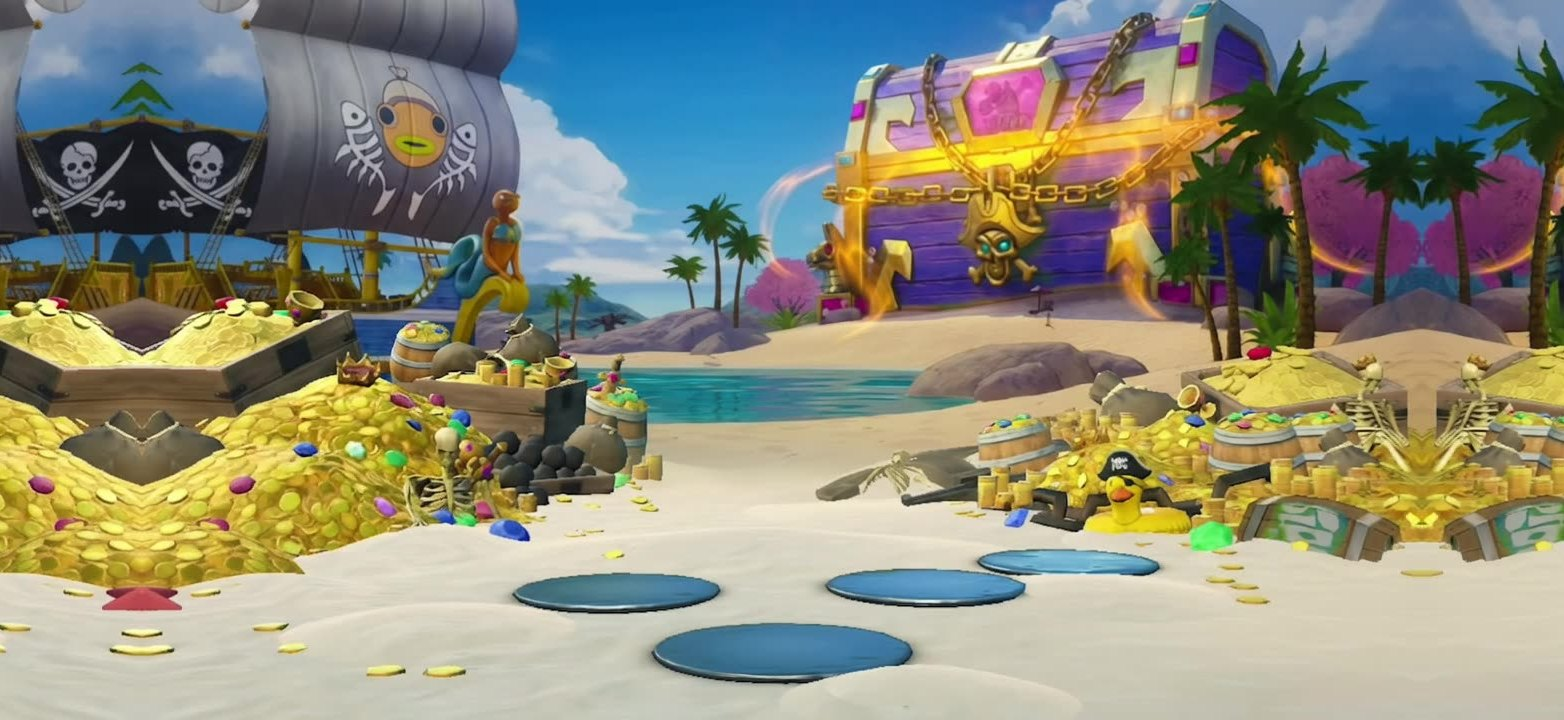
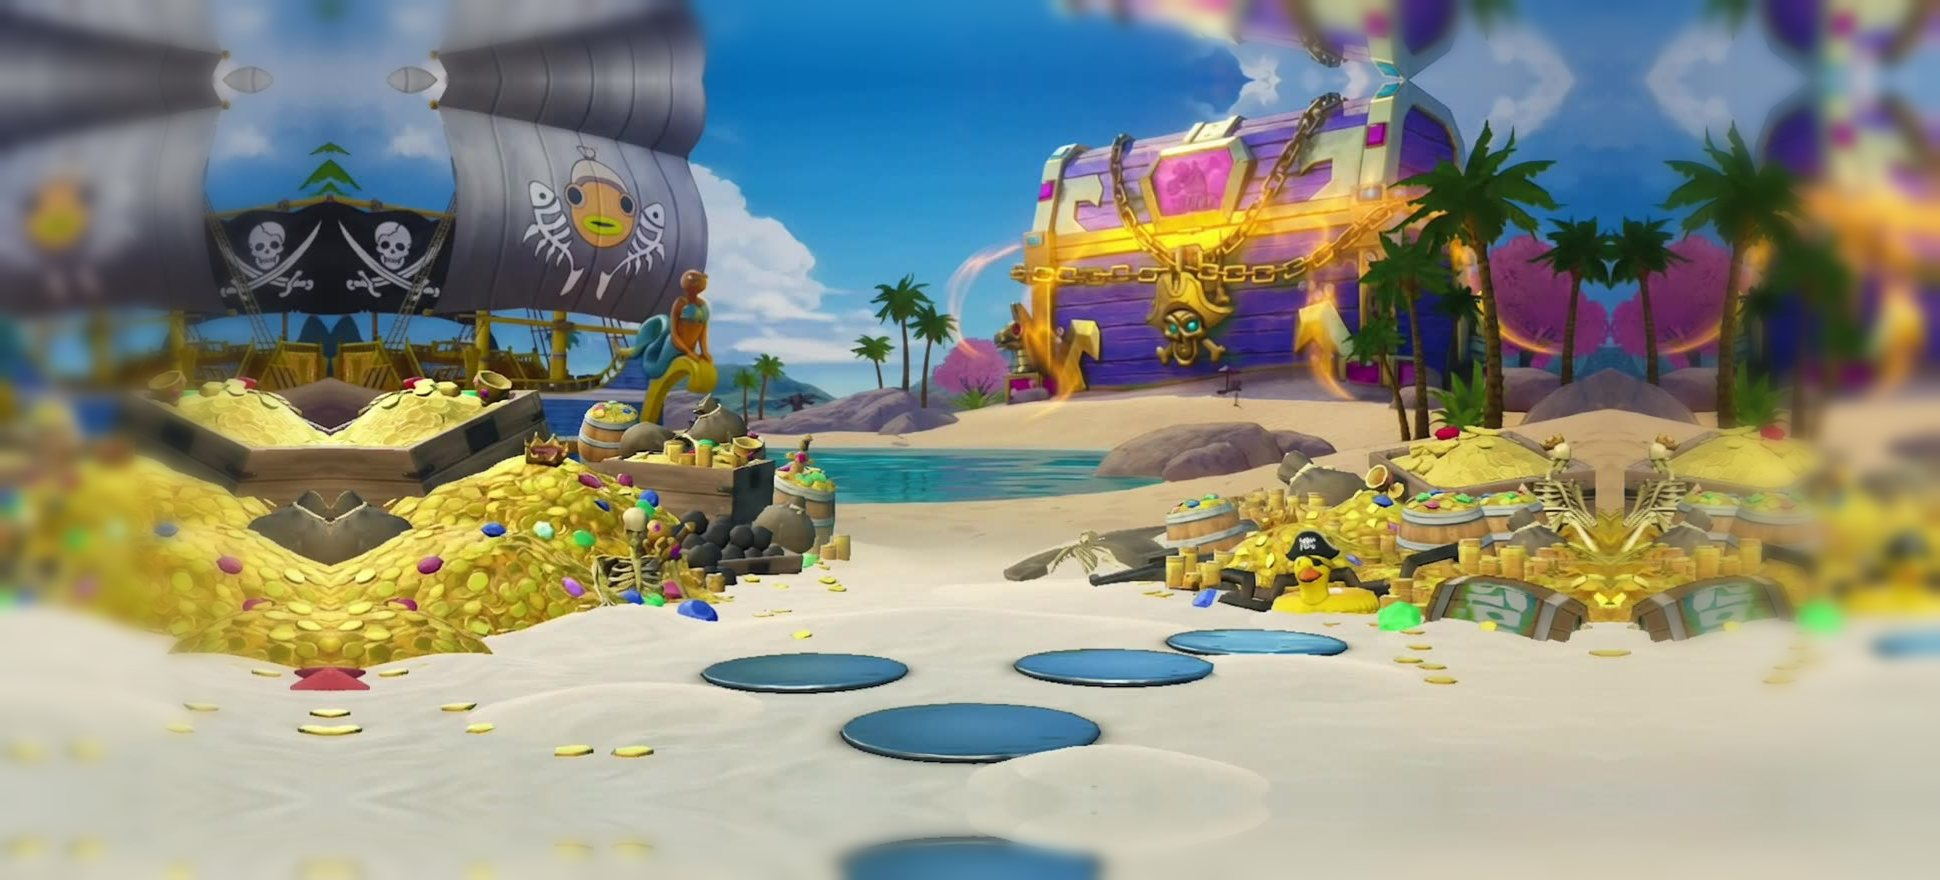
Extend scene beyond stage so the screen is filled edge to edge
Claude-Session: https://claude.ai/code/session_0185b3H2m5DGGxwbrDCBuwc9

diff --git a/fortnite-app/index.html b/fortnite-app/index.html
@@ -20,15 +20,15 @@ body[data-screen="lobby"] #bgfill{background-image:url(assets/lobby_poster.jpg)}
 body[data-screen="treasure"] #bgfill{background-image:url(assets/bg_treasure.webp)}
 body[data-screen="shop"] #bgfill{background-image:url(assets/bg_shop.webp)}
 body[data-screen="vbucks"] #bgfill{background-image:url(assets/bg_vbucks.webp)}
-#bgfx{position:absolute;inset:0;z-index:0;background:transparent center/100% 100% no-repeat}
-#vwrap{position:absolute;left:0;top:0;width:1564px;height:720px;z-index:1;transform-origin:0 0;transform:translate(0,-.15px) scale(1.27935);background:url(assets/lobby_ext.jpg) 0 0/100% 100%}
-#bg{position:absolute;left:142px;top:0;width:1280px;height:720px;object-fit:fill;z-index:1;-webkit-mask-image:linear-gradient(to right,transparent 0,#000 40px,#000 calc(100% - 40px),transparent 100%);mask-image:linear-gradient(to right,transparent 0,#000 40px,#000 calc(100% - 40px),transparent 100%);background:transparent;pointer-events:none}
+#bgfx{position:absolute;left:-300px;top:-90px;width:2600px;height:1101px;z-index:0;background:transparent 0 0/100% 100% no-repeat}
+#vwrap{position:absolute;left:0;top:0;width:1940px;height:880px;z-index:1;transform-origin:0 0;transform:translate(-241.8px,-102.5px) scale(1.27935);background:url(assets/lobby_ext.jpg) 0 0/100% 100%}
+#bg{position:absolute;left:330px;top:80px;width:1280px;height:720px;object-fit:fill;z-index:1;-webkit-mask-image:linear-gradient(to right,transparent 0,#000 40px,#000 calc(100% - 40px),transparent 100%);mask-image:linear-gradient(to right,transparent 0,#000 40px,#000 calc(100% - 40px),transparent 100%);background:transparent;pointer-events:none}
 #bg::-webkit-media-controls,#bg::-webkit-media-controls-panel,#bg::-webkit-media-controls-start-playback-button,#bg::-webkit-media-controls-overlay-play-button{display:none!important;-webkit-appearance:none;opacity:0}
 body:not([data-screen="lobby"]) #vwrap{visibility:hidden}
-body[data-screen="treasure"] #bgfx{background-image:url(assets/bg_treasure.webp)}
-body[data-screen="shop"] #bgfx{background-image:url(assets/bg_shop.webp)}
-body[data-screen="vbucks"] #bgfx{background-image:url(assets/bg_vbucks.webp)}
-#stage{position:fixed;left:50%;top:50%;width:2000px;height:921px;transform-origin:center;overflow:hidden;z-index:2;user-select:none;color:#fff}
+body[data-screen="treasure"] #bgfx{background-image:url(assets/bg_treasure_ext.jpg)}
+body[data-screen="shop"] #bgfx{background-image:url(assets/bg_shop_ext.jpg)}
+body[data-screen="vbucks"] #bgfx{background-image:url(assets/bg_vbucks_ext.jpg)}
+#stage{position:fixed;left:50%;top:50%;width:2000px;height:921px;transform-origin:center;overflow:visible;z-index:2;user-select:none;color:#fff}
 .screen{position:absolute;inset:0}.screen[hidden]{display:none}
 .gl{position:absolute;pointer-events:none}.gl.btn{pointer-events:auto;cursor:pointer}
 .pack{position:absolute;inset:0;pointer-events:none}
